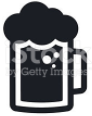
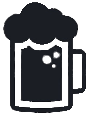
adjusted size of images, changed look of some drink-type images

diff --git a/src/components/company-result.js b/src/components/company-result.js
@@ -7,7 +7,9 @@ export function CompanyResult(props) {
     console.log(<DrinkTypes types={company.types} />);
     return (
       <div className="result-container box pure-g">
-        <img className="pure-u-1-4" src={`/media/${props.company.image}`} />
+        <div className="pure-u-1-4">
+          <img className="company-result" src={`/media/${props.company.image}`} />
+        </div>
         <div className="pure-u-1-2">
           <h3>{company.name}</h3>
           <p>{company.streetAddress}</p>

diff --git a/public/styles/main.scss b/public/styles/main.scss
@@ -41,12 +41,6 @@ span.unchecked {
   color: #a9a9a9; //dark gray
 }
 
-// TODO get rid of this
-img {
-  height:125px;
-
-}
-
 .box {
   margin: 50px auto;
   // padding: 50px 20px;
@@ -56,6 +50,17 @@ img {
   background-color: #FFFFFF;//off-white
   color:$burgundy;
   border-radius: 15px;
+}
+
+img.drink-type {
+  height:60px;
+}
+
+img.company-result {
+  max-height: 150px;
+}
+img.company {
+  max-width: 300px;
 }
 
 .black-screen {

diff --git a/public/styles/main.css b/public/styles/main.css
@@ -29,9 +29,6 @@ span.checked {
 span.unchecked {
   color: #a9a9a9; }
 
-img {
-  height: 125px; }
-
 .box {
   margin: 50px auto;
   max-width: 700px;
@@ -40,6 +37,15 @@ img {
   background-color: #FFFFFF;
   color: #7b2739;
   border-radius: 15px; }
+
+img.drink-type {
+  height: 60px; }
+
+img.company-result {
+  max-height: 150px; }
+
+img.company {
+  max-width: 300px; }
 
 .black-screen {
   position: fixed;

diff --git a/src/components/company-info.js b/src/components/company-info.js
@@ -21,7 +21,7 @@ export default class CompanyInfo extends React.Component {
           <DrinkTypes types={company.types} />
 
         </div>
-        <img src={`/media/${company.image}`}/>
+        <img className="company" src={`/media/${company.image}`}/>
         <p>Hours: </p>
           <ul>
             {hours(company.hours)}

diff --git a/src/components/drink-types.js b/src/components/drink-types.js
@@ -5,7 +5,7 @@ export default function DrinkTypes(props) {
   let typeImgs = [];
   for(let i = 0; i < types.length; i++){
     typeImgs.push(
-      <img src={`/media/${types[i]}.png`}/>
+      <img className="drink-type" src={`/media/${types[i]}.png`}/>
     );
   }
 
